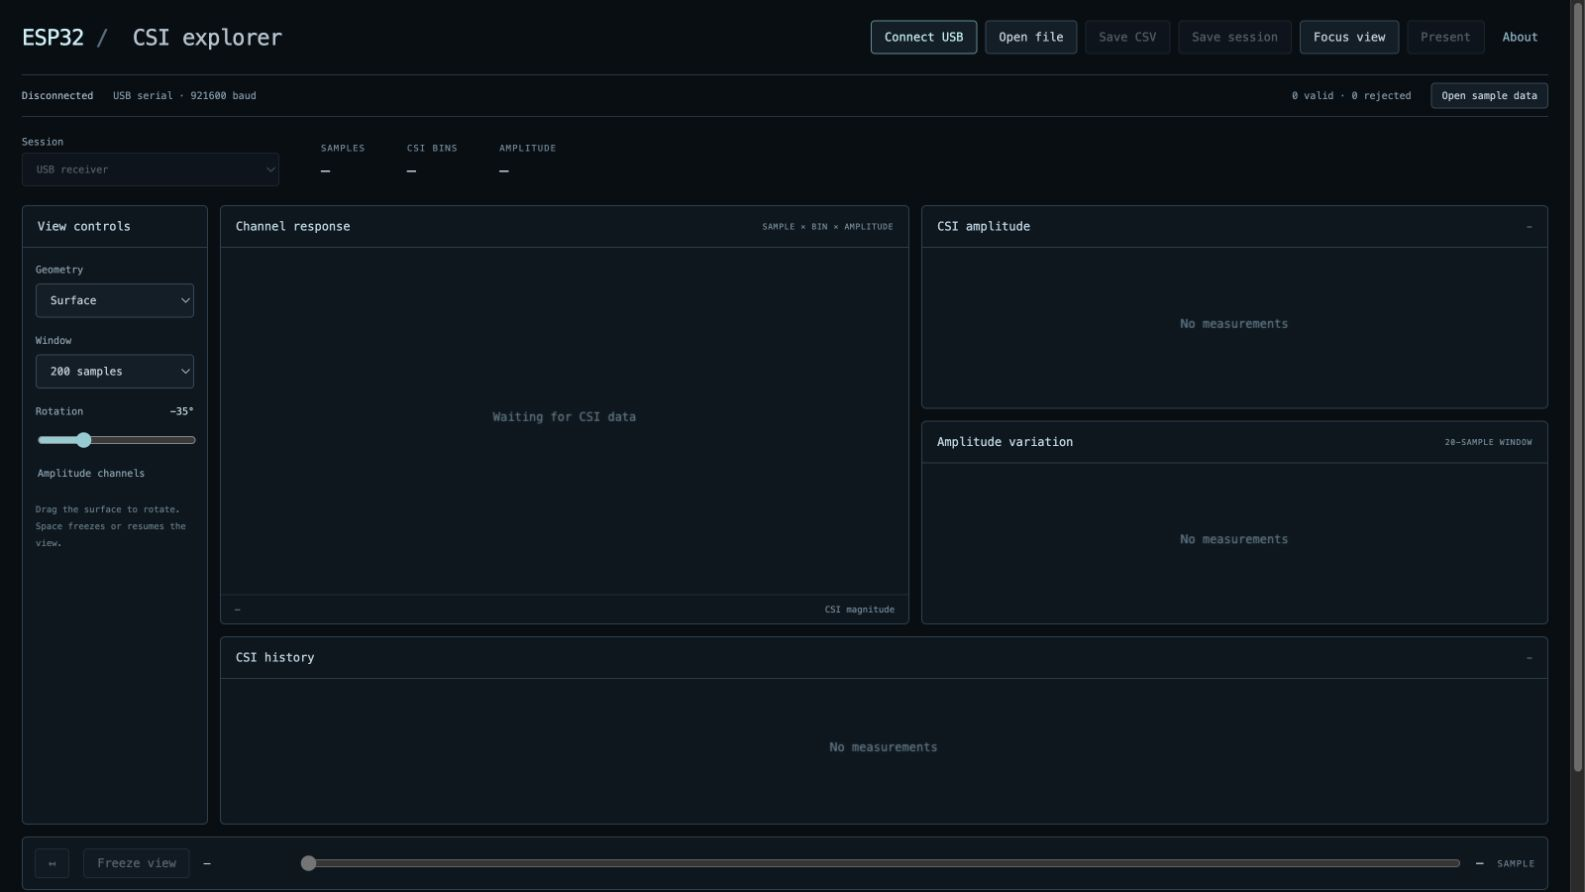
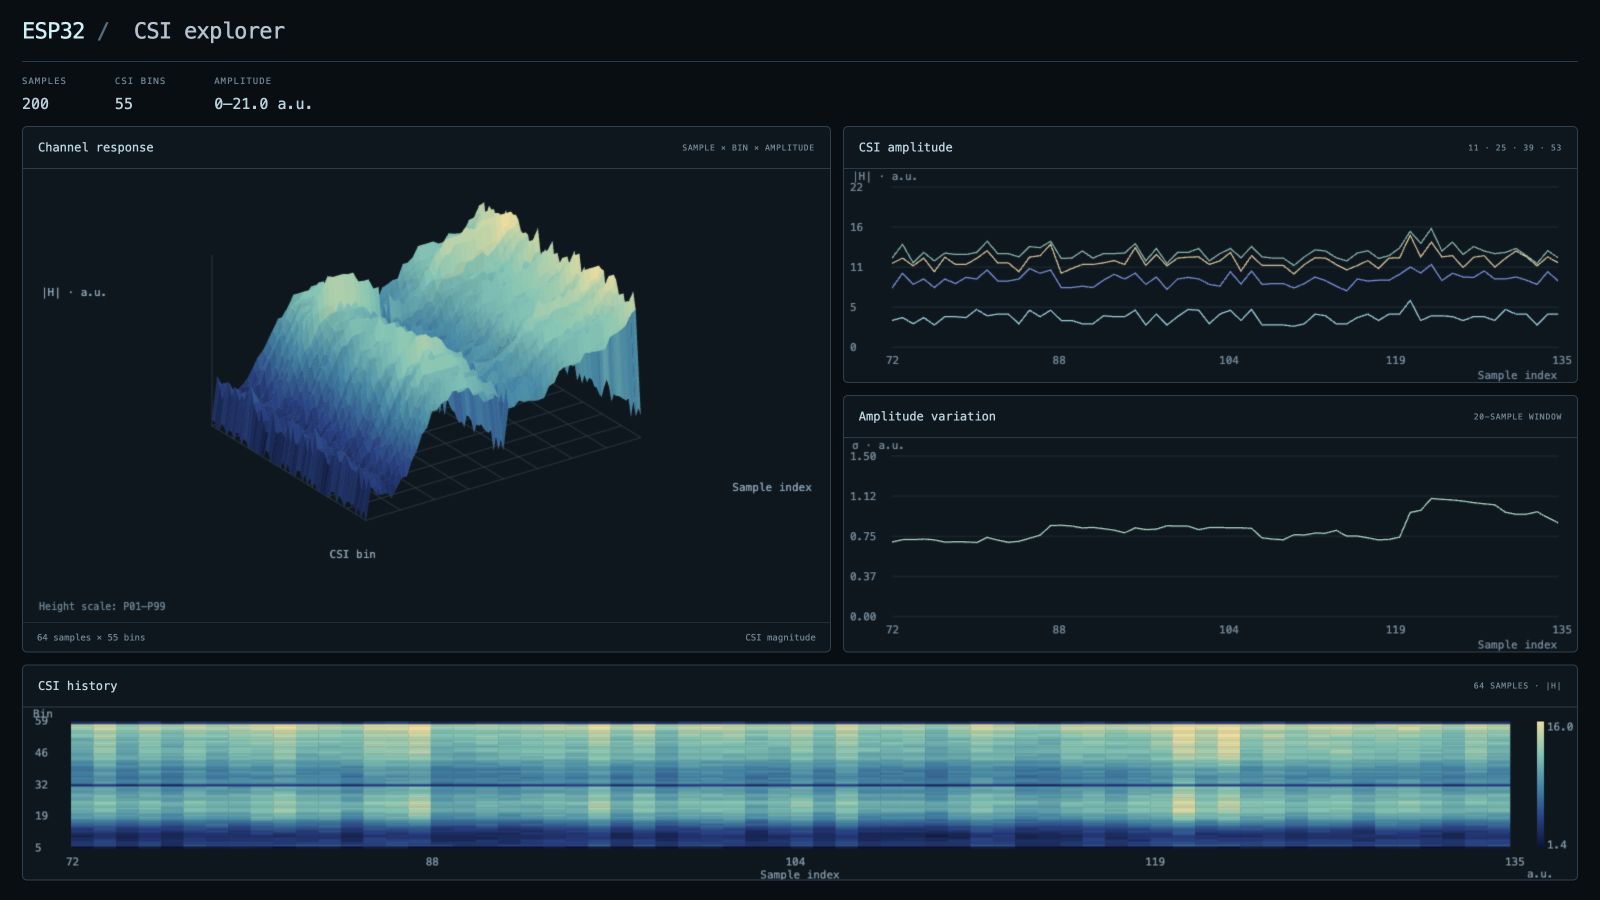
Publish hosted explorer and recorded-data demo with populated preview

diff --git a/app.js b/app.js
@@ -226,3 +226,15 @@ function frame(now) {
 }
 if (!navigator.serial) message('USB needs desktop Chrome or Edge on localhost/HTTPS. File viewing is available in this browser.');
 resetView(); statusView(); requestAnimationFrame(frame);
+
+// An explicit demo URL opens attributed recordings; the hardware URL stays empty.
+if (new URLSearchParams(location.search).get('demo') === 'walking') {
+  await $('samples').onclick();
+  if (source === 'file' && clip) {
+    const walking = dataset.clips.find(c => /walking/i.test(c.label));
+    if (walking) { select(walking.id); $('session').value = walking.id; }
+    $('window').value = '64'; $('speed').value = '10'; $('loop').checked = true;
+    index = Math.min(64, clip.t.length - 1); playing = true; dirty = true;
+    controls();
+  }
+}

diff --git a/README.md b/README.md
@@ -5,7 +5,16 @@ it sends: amplitude traces, a CSI heatmap and a 3D bin × sample × magnitude su
 This is a local hardware project with pinned transmitter/receiver firmware and a
 browser client. It starts with empty plots until measurements arrive.
 
-![Interface awaiting measurements](docs/interface.jpg)
+**[Open the explorer](https://codingard.github.io/esp32-csi-explorer/)** ·
+**[Watch the recorded-data demo](https://codingard.github.io/esp32-csi-explorer/?demo=walking)**
+
+The hosted explorer works immediately, without installing Node.js. Use desktop
+Chrome or Edge for USB input, or open the demo link to explore published recordings.
+
+![Explorer displaying published walking-session CSI measurements](docs/interface.jpg)
+
+*Actual interface with attributed recorded data loaded, shown in Present mode.
+The hardware view starts empty until a receiver is connected.*
 
 [Hardware and wiring](docs/HARDWARE.md) · [Pinned firmware](docs/FIRMWARE.md) ·
 [Physical acceptance](docs/TESTING.md) · [File format](docs/FILE_FORMAT.md)
